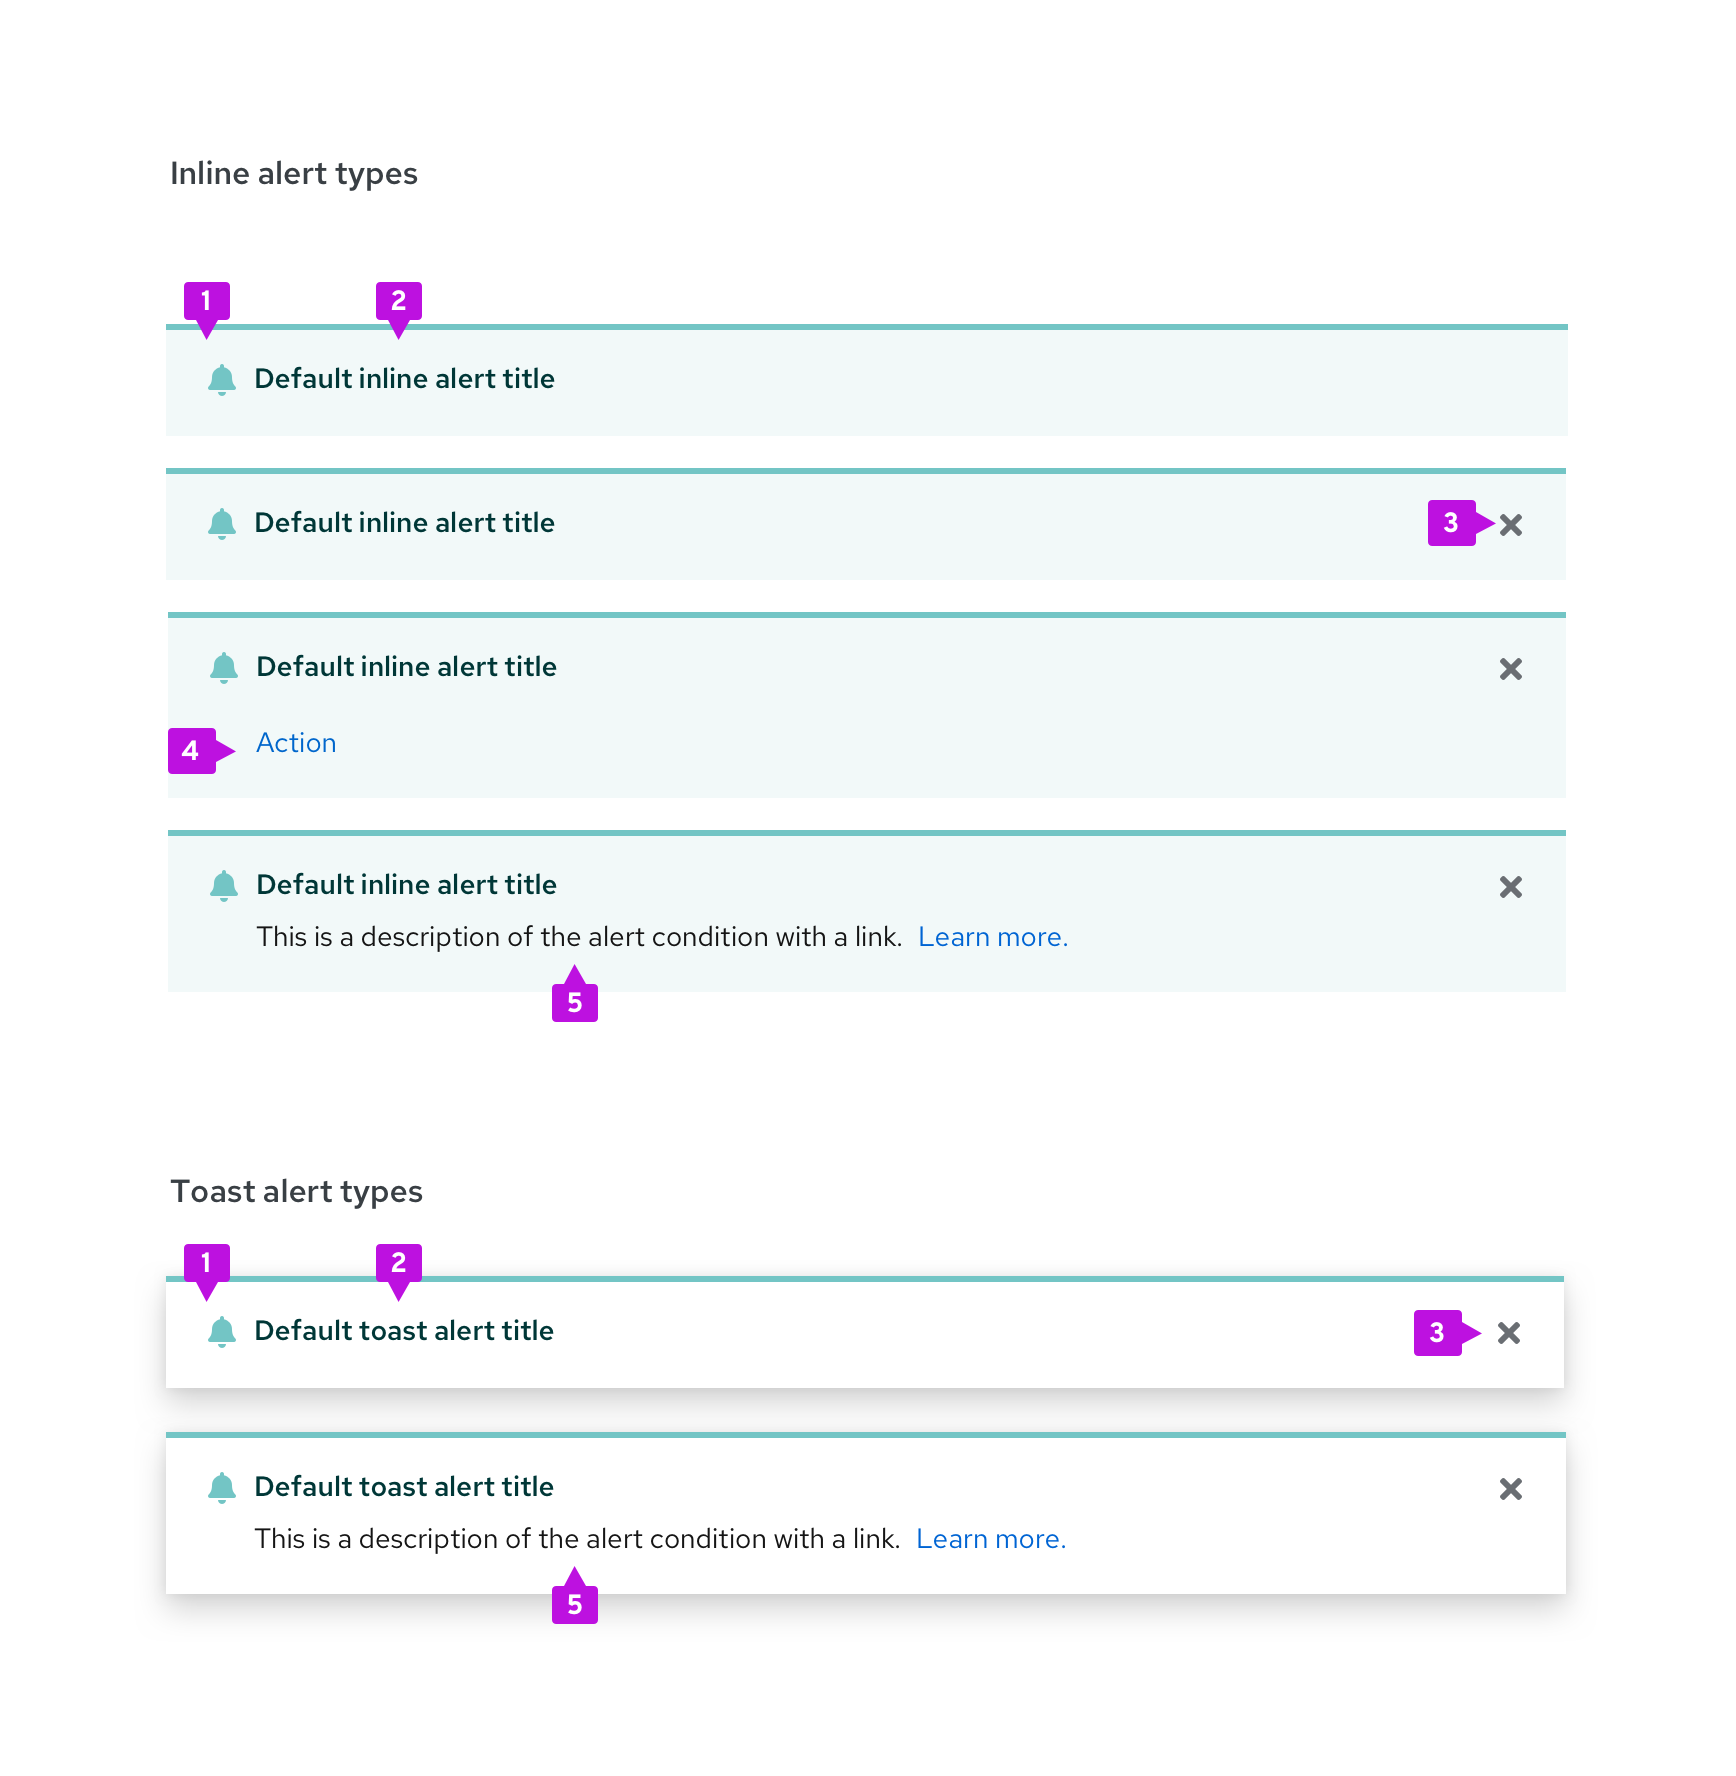
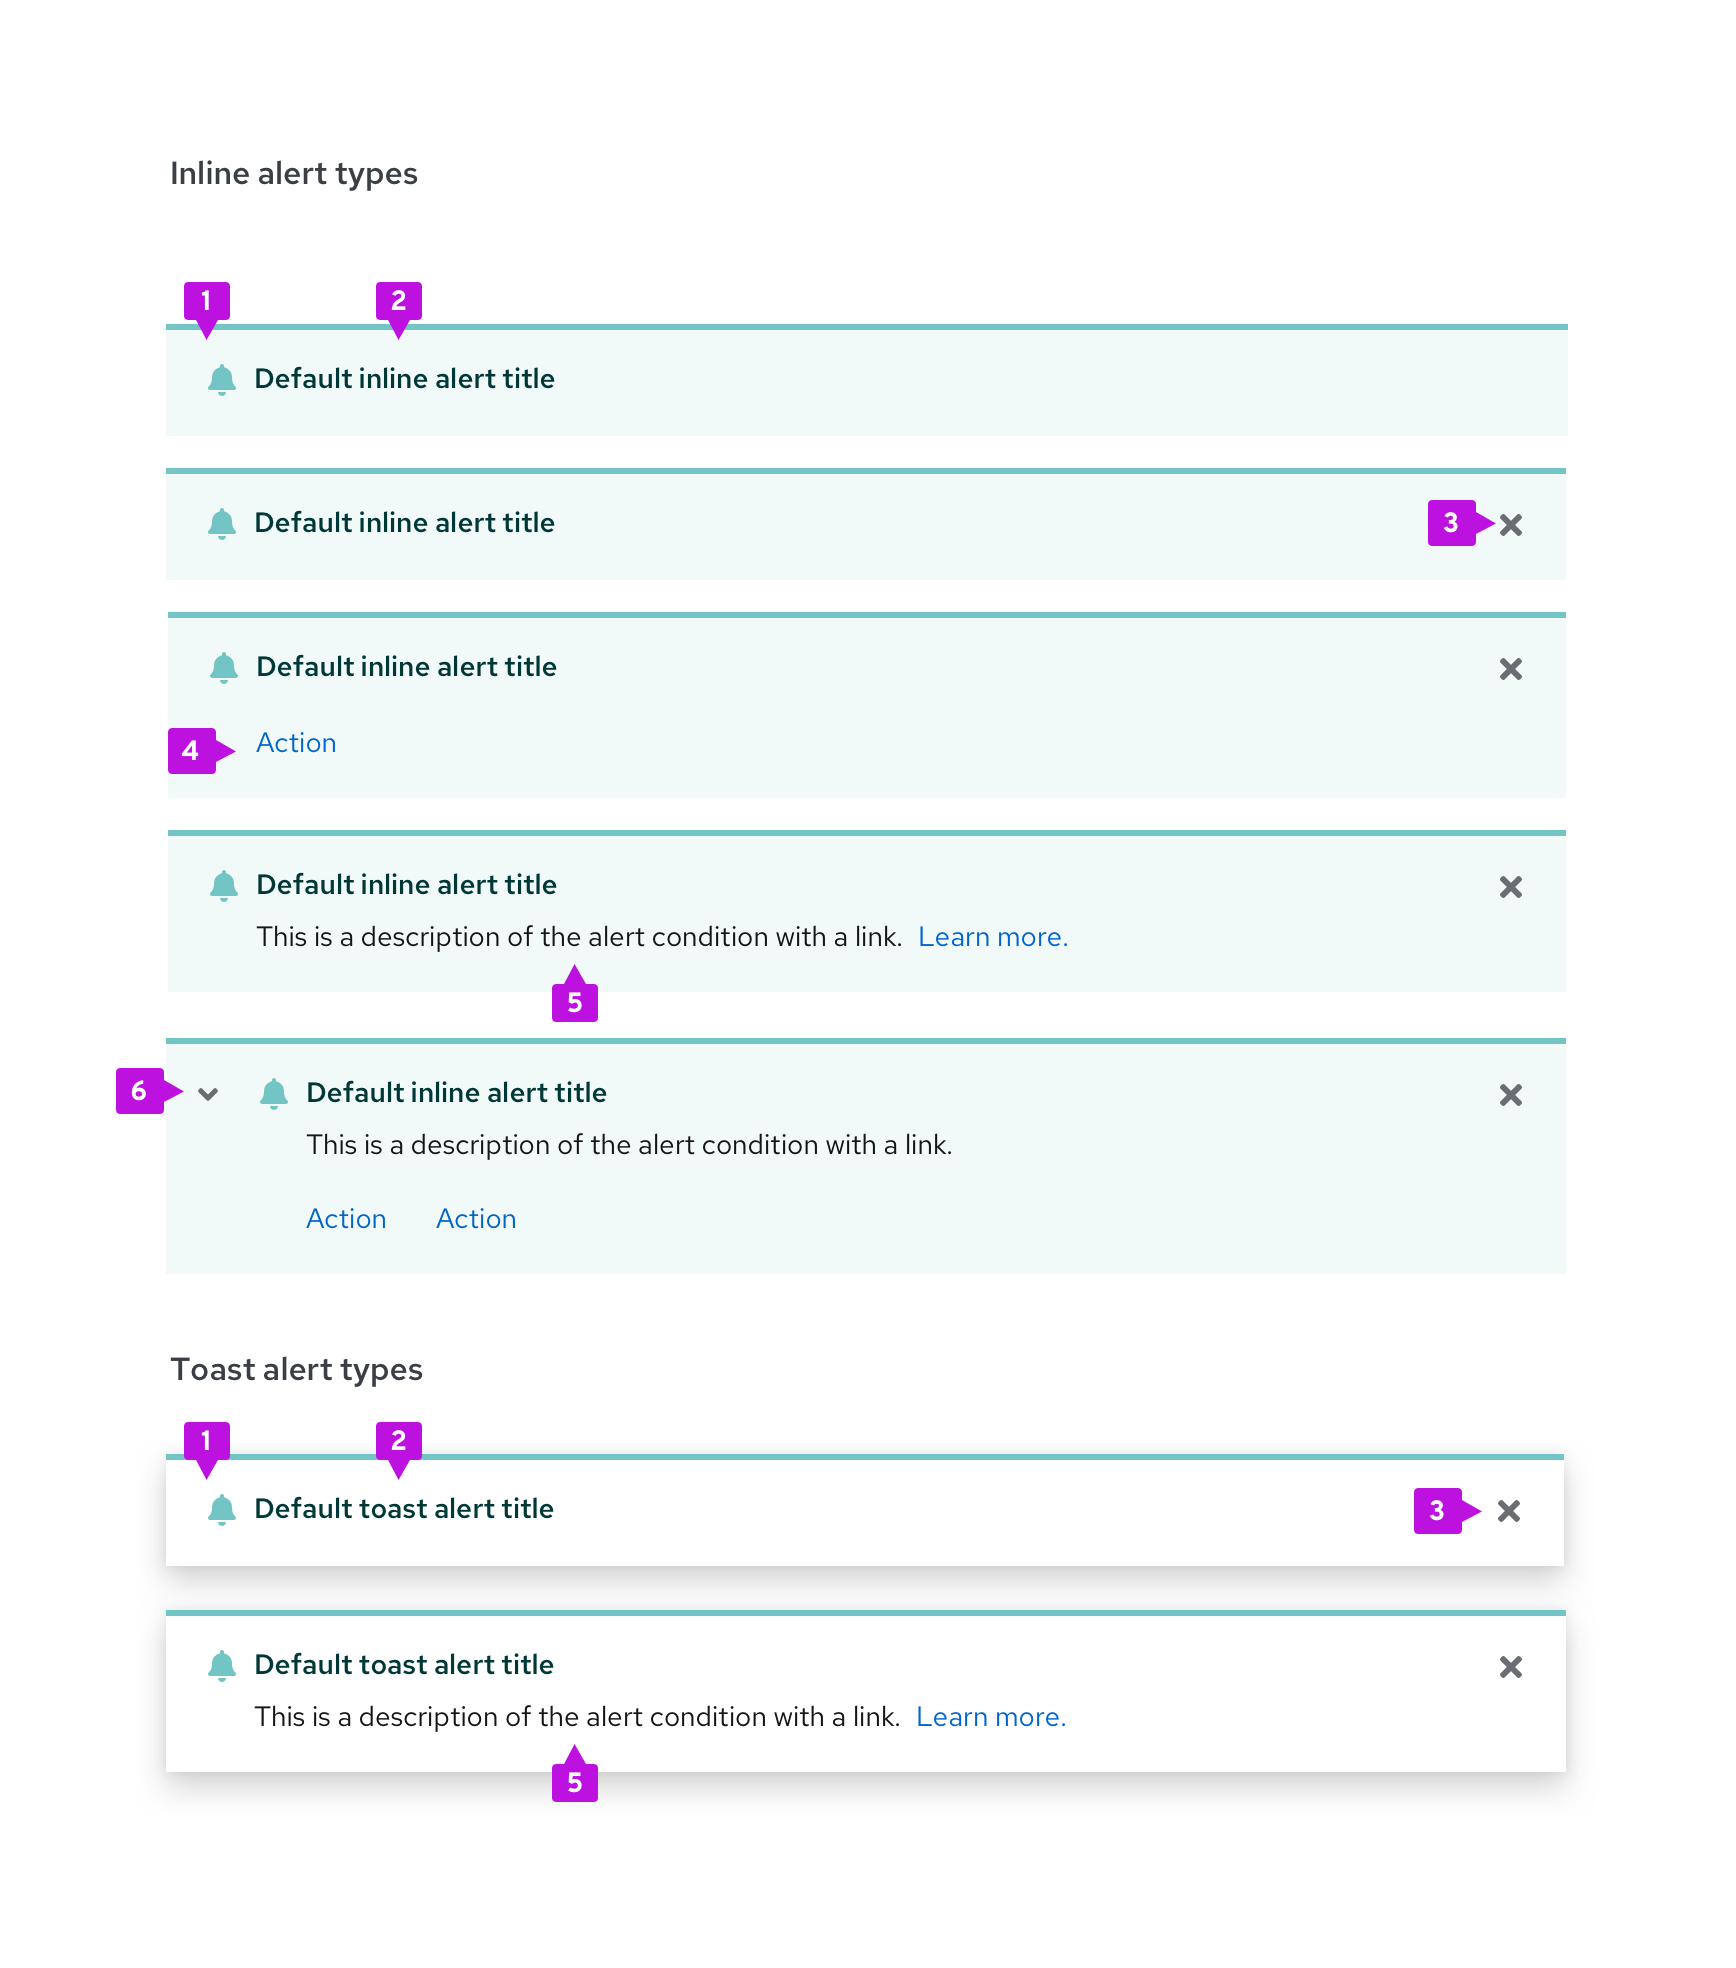
added expandable alert

Changed region(s): [[0.0622, 0.0619, 0.9021, 0.5884], [0.0933, 0.6503, 0.9021, 0.9291], [0.5288, 0.8671, 0.6221, 0.8981]]

diff --git a/packages/v4/src/content/design-guidelines/components/alert/alert.md b/packages/v4/src/content/design-guidelines/components/alert/alert.md
@@ -26,7 +26,7 @@ Toast alerts are always dismissible, and inline alerts can be both dismissable a
 3. **Close button**: The close button is used to dismiss the alert. It’s required for toast alerts and optional for inline alerts.  
 4. **Actions (optional)**: The actions area enables the user to take a specific action in relation to the alert. One or more actions can be placed inside of an alert.  
 5. **Description (optional)**: The description field communicates additional information to the user. It can also include a navigation link as an alternative to an action.
-
+6. **Expandable alert (optional)**: Extends the alert and reveals additional information.
 
 ## Communicating severity
 The status icon, background, and alert title are coded to communicate the severity of an alert.
